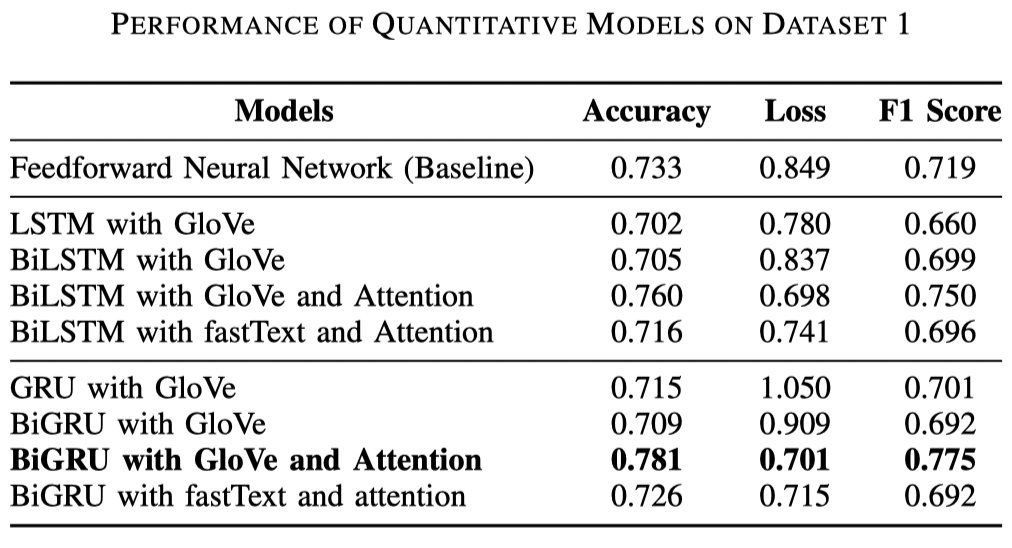
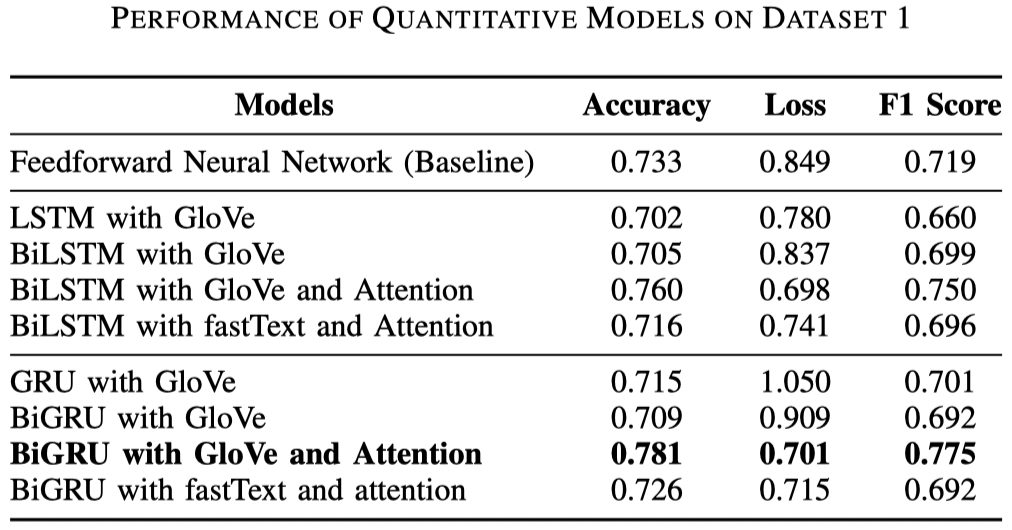
Experimenting with different image sizes

Changed region(s): [[0.0, 0.1208, 1.0, 0.9962], [0.0919, 0.0, 0.8883, 0.0906]]

diff --git a/README.md b/README.md
@@ -46,7 +46,12 @@ Running `train.py` will train
 
 These are part of the results we got (when we froze the embeddings):
 
-![Performance of Quantitative Models on Dataset 1](images/results1.png) ![Performance of Quantitative Models on Dataset 2](images/results2.png)
+
+<p align="center">
+  <img alt="Light" src="images/results1.png" width="45%">
+&nbsp; &nbsp; &nbsp; &nbsp;
+  <img alt="Dark" src="images/results2.png" width="45%">
+</p>
 
 ### Evaluating Model Performance Against Different Splits of Training and Test Set
 **split_test.py**: compare the performance of the best models against number of training samples 
